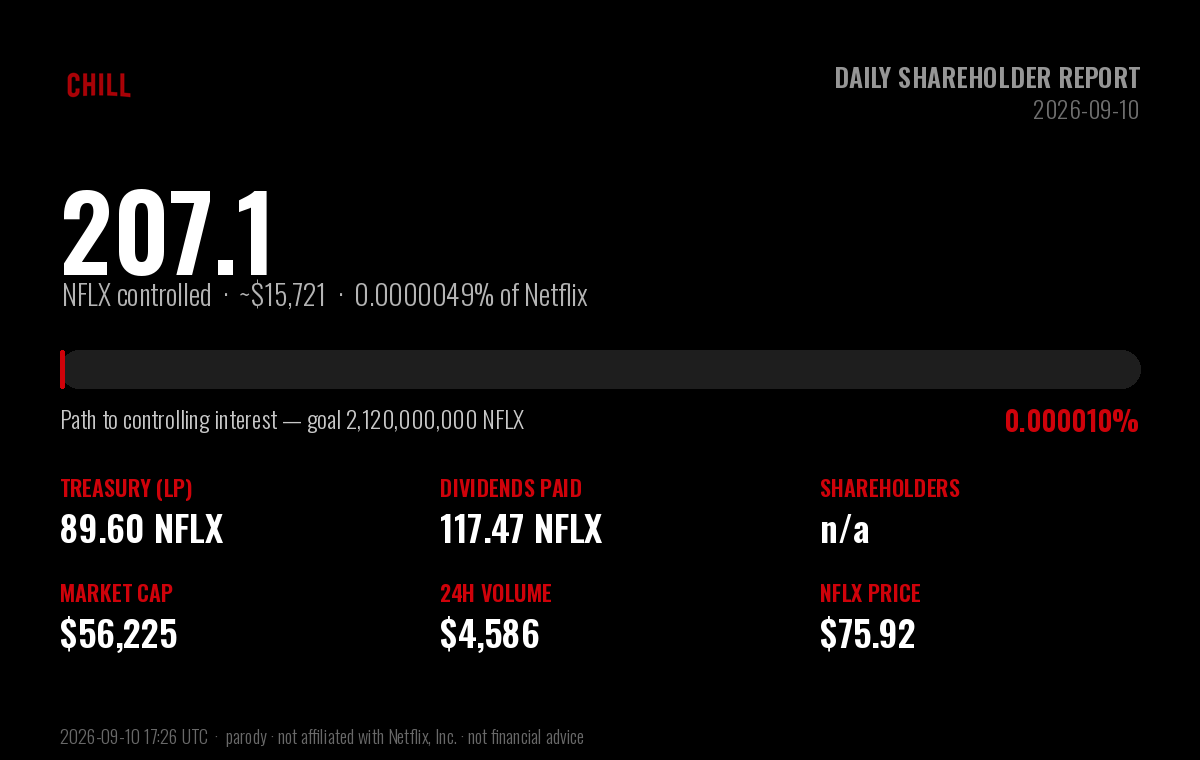
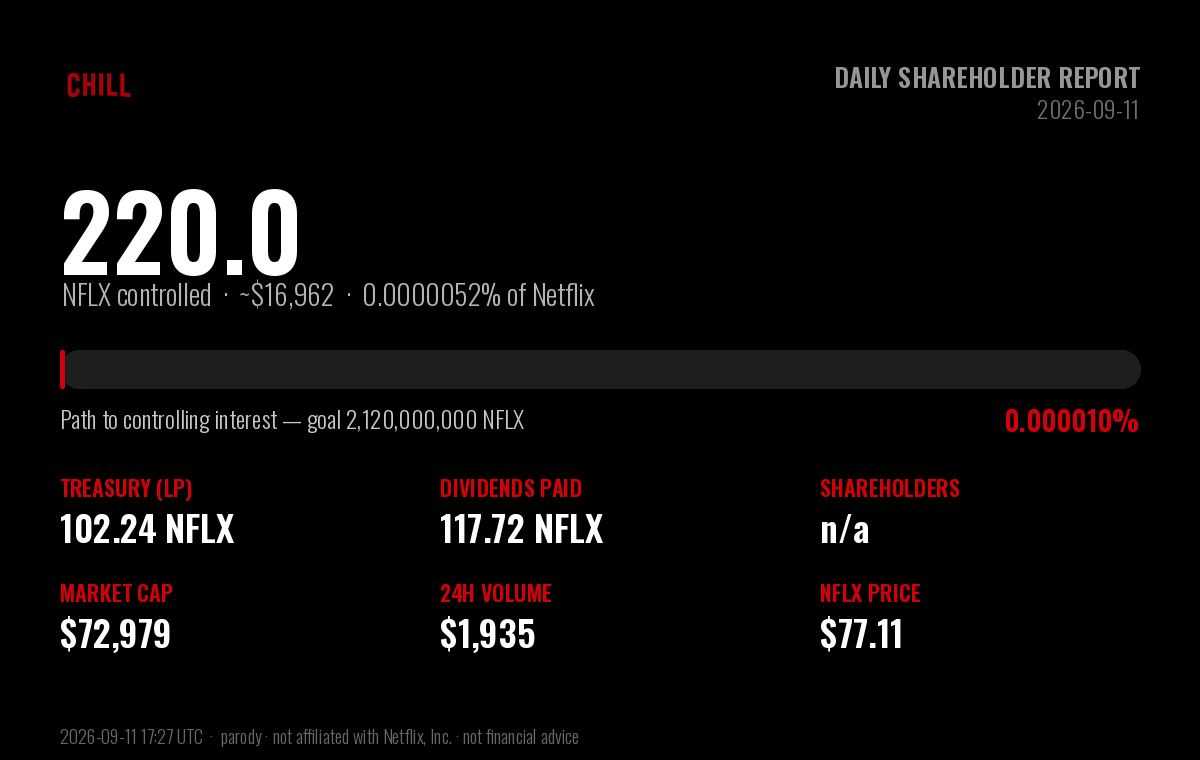
chore: daily $CHILL shareholder report (2026-09-11)

diff --git a/daily-holder-report/README.md b/daily-holder-report/README.md
@@ -1,6 +1,6 @@
 # $CHILL — Daily Shareholder Report
 
-### Netflix and Chill · Report to Shareholders · 2026-09-10
+### Netflix and Chill · Report to Shareholders · 2026-09-11
 
 > **Corporate objective:** acquire a controlling interest in Netflix (NFLX).
 > Netflix has **4,220,000,000** shares outstanding; a majority
@@ -13,53 +13,53 @@
 
 | Metric | Value |
 |---|---|
-| **NFLX under $CHILL control** | **207.08 NFLX** (~$15,721) |
-| Stake in Netflix | 0.000004907% of shares outstanding |
-| Progress to controlling interest | 0.0000098% of 2,120,000,000 |
-| Shares remaining to majority | 2,119,999,793 NFLX |
+| **NFLX under $CHILL control** | **219.96 NFLX** (~$16,962) |
+| Stake in Netflix | 0.000005212% of shares outstanding |
+| Progress to controlling interest | 0.0000104% of 2,120,000,000 |
+| Shares remaining to majority | 2,119,999,780 NFLX |
 
 ## Balance sheet — NFLX holdings
 
 | Holding | NFLX | USD |
 |---|---|---|
-| Treasury (protocol-owned liquidity) | 89.60 | $6,803 |
-| Dividends distributed to shareholders | 117.47 | $8,918 |
-| **Total NFLX controlled** | **207.08** | **$15,721** |
+| Treasury (protocol-owned liquidity) | 102.24 | $7,884 |
+| Dividends distributed to shareholders | 117.72 | $9,078 |
+| **Total NFLX controlled** | **219.96** | **$16,962** |
 
 ## Last 24 hours
 
 | Metric | Value |
 |---|---|
-| Trading volume | 60.40 NFLX (~$4,586) |
-| Net NFLX accumulated | -31.13 NFLX |
-| Dividends generated | 0.6040 NFLX |
-| Transactions | 40 (16 buys / 24 sells) |
-| $CHILL price change | -4.5% |
+| Trading volume | 25.09 NFLX (~$1,935) |
+| Net NFLX accumulated | 12.63 NFLX |
+| Dividends generated | 0.2509 NFLX |
+| Transactions | 18 (9 buys / 9 sells) |
+| $CHILL price change | +31.1% |
 
 ## Shareholder & market data
 
 | Metric | Value |
 |---|---|
 | Shareholders of record | n/a |
-| Lifetime unique participants | 1776 |
+| Lifetime unique participants | 1777 |
 | Shares outstanding ($CHILL) | 1,000,000,000 |
-| Market capitalization | $56,225 |
-| $CHILL price | $0.00005623 |
-| NFLX price | $75.92 |
-| Lifetime volume | 11,747.30 NFLX (~$891,841) |
-| Lifetime transactions | 8,389 (4,700 buys / 3,689 sells) |
-| Days since IPO (launch) | 53 |
+| Market capitalization | $72,979 |
+| $CHILL price | $0.00007298 |
+| NFLX price | $77.11 |
+| Lifetime volume | 11,772.39 NFLX (~$907,806) |
+| Lifetime transactions | 8,407 (4,709 buys / 3,698 sells) |
+| Days since IPO (launch) | 54 |
 
 ## Per-share metrics
 
 | Metric | Value |
 |---|---|
-| NFLX backing per 1M $CHILL | 0.207077 NFLX |
-| Dividends per 1M $CHILL | 0.117473 NFLX |
+| NFLX backing per 1M $CHILL | 0.219960 NFLX |
+| Dividends per 1M $CHILL | 0.117724 NFLX |
 
 ---
 
-*Report generated 2026-09-10 17:26 UTC · block 59,580,468 · data via the Sentry-Robinhood
+*Report generated 2026-09-11 17:27 UTC · block 60,433,068 · data via the Sentry-Robinhood
 subgraph and Robinhood Chain explorer.*
 
 **Disclaimer:** $CHILL is an independent, community-driven **parody** token. It is
